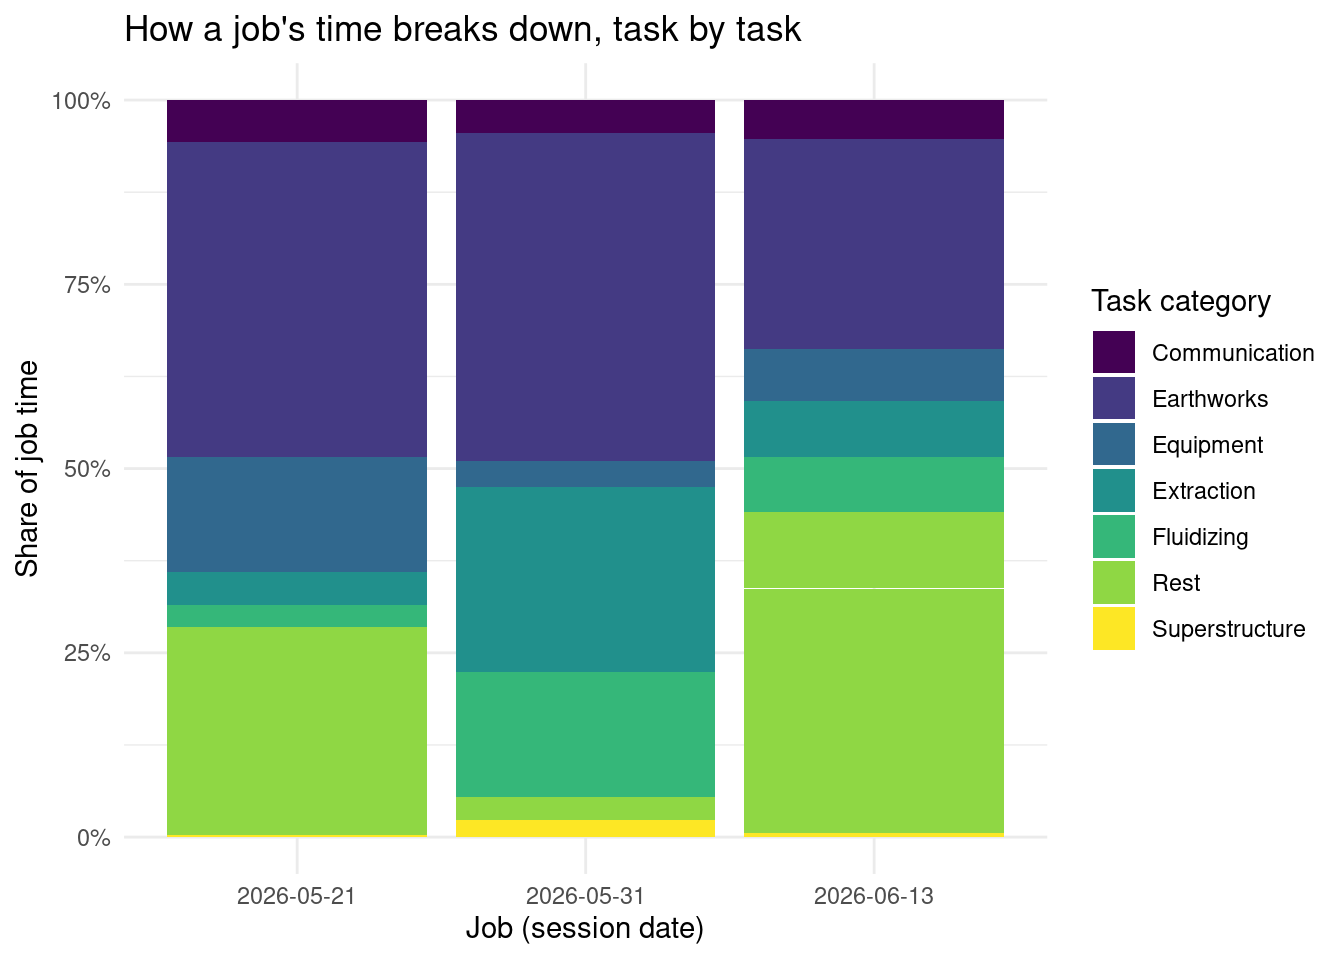
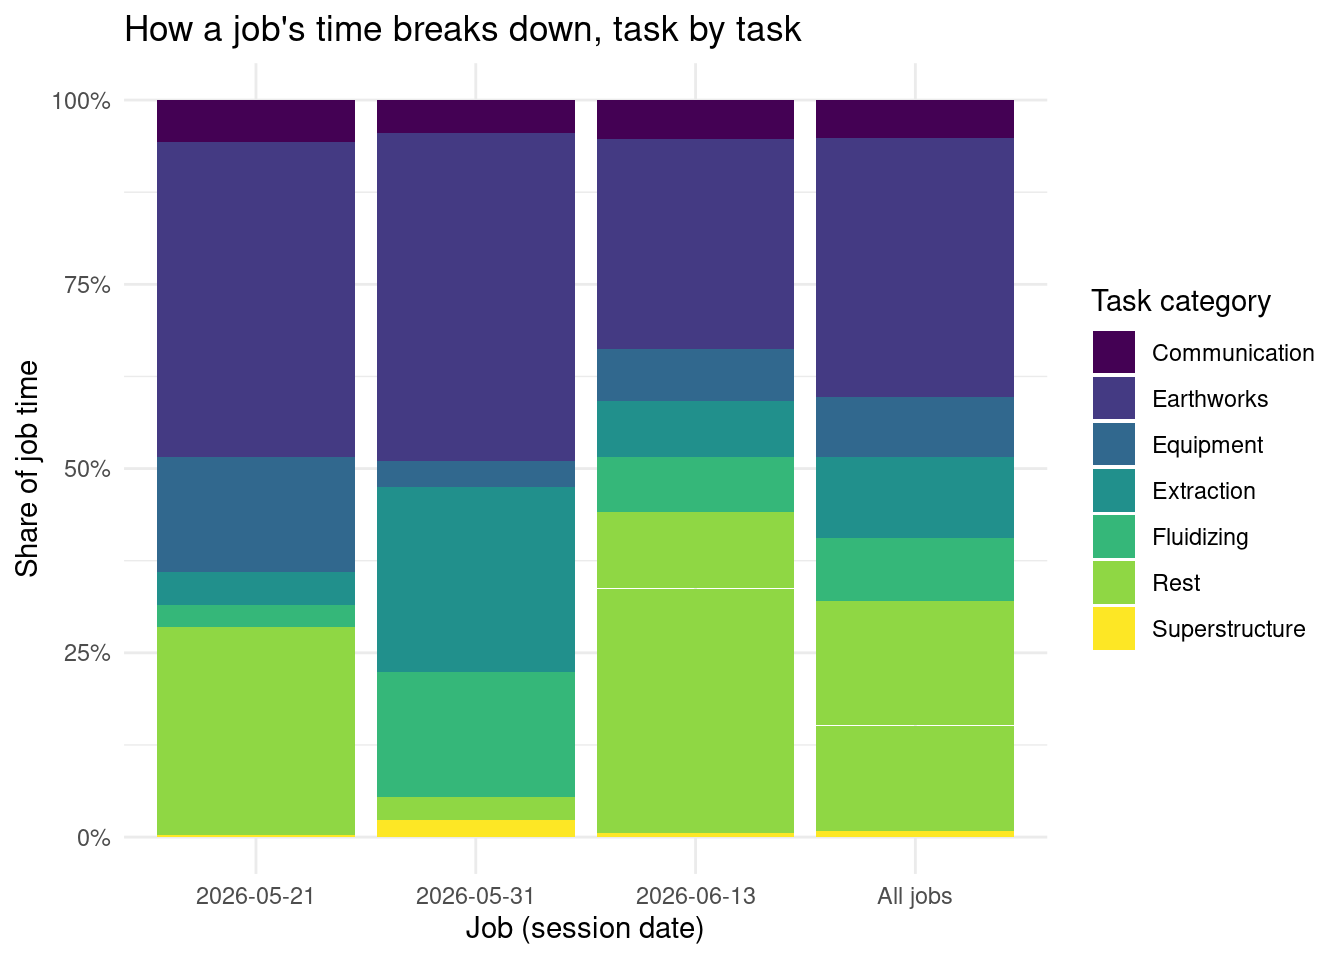
Added an additional column to figure 2, which depicts the percentage of time each task takes to complete a job. This additional column is an average of the three jobs.
For figure 3, the scale was changed from logarithmic to linear.

diff --git a/docs/index.html b/docs/index.html
@@ -116,7 +116,7 @@ div.csl-indent {
   <ul class="collapse">
   <li><a href="#time-by-task-category" id="toc-time-by-task-category" class="nav-link" data-scroll-target="#time-by-task-category">Time by task category</a></li>
   <li><a href="#share-of-job-time-by-task" id="toc-share-of-job-time-by-task" class="nav-link" data-scroll-target="#share-of-job-time-by-task">Share of job time by task</a></li>
-  <li><a href="#distribution-of-task-interval-durations" id="toc-distribution-of-task-interval-durations" class="nav-link" data-scroll-target="#distribution-of-task-interval-durations">Distribution of task-interval durations</a></li>
+  <li><a href="#typical-duration-by-task" id="toc-typical-duration-by-task" class="nav-link" data-scroll-target="#typical-duration-by-task">Typical duration by task</a></li>
   <li><a href="#summary-statistics" id="toc-summary-statistics" class="nav-link" data-scroll-target="#summary-statistics">Summary statistics</a></li>
   </ul></li>
   <li><a href="#conclusions" id="toc-conclusions" class="nav-link" data-scroll-target="#conclusions">Conclusions</a></li>
@@ -268,17 +268,26 @@ Figure&nbsp;1: Total observed time by task category, summed across all three rid
 <section id="share-of-job-time-by-task" class="level2">
 <h2 class="anchored" data-anchor-id="share-of-job-time-by-task">Share of job time by task</h2>
 <div class="cell">
-<div class="code-copy-outer-scaffold"><div class="sourceCode cell-code" id="cb6"><pre class="sourceCode r code-with-copy"><code class="sourceCode r"><span id="cb6-1"><a href="#cb6-1" aria-hidden="true" tabindex="-1"></a><span class="fu">ggplot</span>(gulper_data, <span class="fu">aes</span>(<span class="at">x =</span> <span class="fu">factor</span>(job_date), <span class="at">y =</span> duration_seconds, <span class="at">fill =</span> task)) <span class="sc">+</span></span>
-<span id="cb6-2"><a href="#cb6-2" aria-hidden="true" tabindex="-1"></a>  <span class="fu">geom_col</span>(<span class="at">position =</span> <span class="st">"fill"</span>) <span class="sc">+</span></span>
-<span id="cb6-3"><a href="#cb6-3" aria-hidden="true" tabindex="-1"></a>  <span class="fu">scale_y_continuous</span>(<span class="at">labels =</span> scales<span class="sc">::</span>percent) <span class="sc">+</span></span>
-<span id="cb6-4"><a href="#cb6-4" aria-hidden="true" tabindex="-1"></a>  <span class="fu">scale_fill_viridis_d</span>() <span class="sc">+</span></span>
-<span id="cb6-5"><a href="#cb6-5" aria-hidden="true" tabindex="-1"></a>  <span class="fu">labs</span>(</span>
-<span id="cb6-6"><a href="#cb6-6" aria-hidden="true" tabindex="-1"></a>    <span class="at">x =</span> <span class="st">"Job (session date)"</span>,</span>
-<span id="cb6-7"><a href="#cb6-7" aria-hidden="true" tabindex="-1"></a>    <span class="at">y =</span> <span class="st">"Share of job time"</span>,</span>
-<span id="cb6-8"><a href="#cb6-8" aria-hidden="true" tabindex="-1"></a>    <span class="at">fill =</span> <span class="st">"Task category"</span>,</span>
-<span id="cb6-9"><a href="#cb6-9" aria-hidden="true" tabindex="-1"></a>    <span class="at">title =</span> <span class="st">"How a job's time breaks down, task by task"</span></span>
-<span id="cb6-10"><a href="#cb6-10" aria-hidden="true" tabindex="-1"></a>  ) <span class="sc">+</span></span>
-<span id="cb6-11"><a href="#cb6-11" aria-hidden="true" tabindex="-1"></a>  <span class="fu">theme_minimal</span>()</span></code></pre></div><button title="Copy to Clipboard" class="code-copy-button"><i class="bi"></i></button></div>
+<div class="code-copy-outer-scaffold"><div class="sourceCode cell-code" id="cb6"><pre class="sourceCode r code-with-copy"><code class="sourceCode r"><span id="cb6-1"><a href="#cb6-1" aria-hidden="true" tabindex="-1"></a>job_labels <span class="ot">&lt;-</span> gulper_data <span class="sc">%&gt;%</span></span>
+<span id="cb6-2"><a href="#cb6-2" aria-hidden="true" tabindex="-1"></a>  <span class="fu">mutate</span>(<span class="at">job_date =</span> <span class="fu">as.character</span>(job_date))</span>
+<span id="cb6-3"><a href="#cb6-3" aria-hidden="true" tabindex="-1"></a></span>
+<span id="cb6-4"><a href="#cb6-4" aria-hidden="true" tabindex="-1"></a>job_share_data <span class="ot">&lt;-</span> <span class="fu">bind_rows</span>(</span>
+<span id="cb6-5"><a href="#cb6-5" aria-hidden="true" tabindex="-1"></a>  job_labels,</span>
+<span id="cb6-6"><a href="#cb6-6" aria-hidden="true" tabindex="-1"></a>  job_labels <span class="sc">%&gt;%</span> <span class="fu">mutate</span>(<span class="at">job_date =</span> <span class="st">"All jobs"</span>)</span>
+<span id="cb6-7"><a href="#cb6-7" aria-hidden="true" tabindex="-1"></a>) <span class="sc">%&gt;%</span></span>
+<span id="cb6-8"><a href="#cb6-8" aria-hidden="true" tabindex="-1"></a>  <span class="fu">mutate</span>(<span class="at">job_date =</span> <span class="fu">factor</span>(job_date, <span class="at">levels =</span> <span class="fu">c</span>(<span class="fu">sort</span>(<span class="fu">unique</span>(job_labels<span class="sc">$</span>job_date)), <span class="st">"All jobs"</span>)))</span>
+<span id="cb6-9"><a href="#cb6-9" aria-hidden="true" tabindex="-1"></a></span>
+<span id="cb6-10"><a href="#cb6-10" aria-hidden="true" tabindex="-1"></a><span class="fu">ggplot</span>(job_share_data, <span class="fu">aes</span>(<span class="at">x =</span> job_date, <span class="at">y =</span> duration_seconds, <span class="at">fill =</span> task)) <span class="sc">+</span></span>
+<span id="cb6-11"><a href="#cb6-11" aria-hidden="true" tabindex="-1"></a>  <span class="fu">geom_col</span>(<span class="at">position =</span> <span class="st">"fill"</span>) <span class="sc">+</span></span>
+<span id="cb6-12"><a href="#cb6-12" aria-hidden="true" tabindex="-1"></a>  <span class="fu">scale_y_continuous</span>(<span class="at">labels =</span> scales<span class="sc">::</span>percent) <span class="sc">+</span></span>
+<span id="cb6-13"><a href="#cb6-13" aria-hidden="true" tabindex="-1"></a>  <span class="fu">scale_fill_viridis_d</span>() <span class="sc">+</span></span>
+<span id="cb6-14"><a href="#cb6-14" aria-hidden="true" tabindex="-1"></a>  <span class="fu">labs</span>(</span>
+<span id="cb6-15"><a href="#cb6-15" aria-hidden="true" tabindex="-1"></a>    <span class="at">x =</span> <span class="st">"Job (session date)"</span>,</span>
+<span id="cb6-16"><a href="#cb6-16" aria-hidden="true" tabindex="-1"></a>    <span class="at">y =</span> <span class="st">"Share of job time"</span>,</span>
+<span id="cb6-17"><a href="#cb6-17" aria-hidden="true" tabindex="-1"></a>    <span class="at">fill =</span> <span class="st">"Task category"</span>,</span>
+<span id="cb6-18"><a href="#cb6-18" aria-hidden="true" tabindex="-1"></a>    <span class="at">title =</span> <span class="st">"How a job's time breaks down, task by task"</span></span>
+<span id="cb6-19"><a href="#cb6-19" aria-hidden="true" tabindex="-1"></a>  ) <span class="sc">+</span></span>
+<span id="cb6-20"><a href="#cb6-20" aria-hidden="true" tabindex="-1"></a>  <span class="fu">theme_minimal</span>()</span></code></pre></div><button title="Copy to Clipboard" class="code-copy-button"><i class="bi"></i></button></div>
 <div class="cell-output-display">
 <div id="fig-task-share" class="quarto-float quarto-figure quarto-figure-center anchored">
 <figure class="quarto-float quarto-float-fig figure">
@@ -286,45 +295,48 @@ Figure&nbsp;1: Total observed time by task category, summed across all three rid
 <img src="index_files/figure-html/fig-task-share-1.png" class="img-fluid figure-img" width="672">
 </div>
 <figcaption class="quarto-float-caption-bottom quarto-float-caption quarto-float-fig" id="fig-task-share-caption-0ceaefa1-69ba-4598-a22c-09a6ac19f8ca">
-Figure&nbsp;2: Percentage of each job’s total observed time spent on each task category, shown separately for the three ridealong sessions.
+Figure&nbsp;2: Percentage of each job’s total observed time spent on each task category, shown for the three individual ridealong sessions plus a fourth ‘All jobs’ column combining all three.
 </figcaption>
 </figure>
 </div>
 </div>
 </div>
-<p><a href="#fig-task-share" class="quarto-xref">Figure&nbsp;2</a> shows that Earthworks is the single largest share of every job (29-45%), but the balance of the rest of the time shifts a lot from job to job: Extraction and Fluidizing together used over 40% of the 31 May session but under 15% of the 13 June session, while Rest was rare on 31 May (3%) yet accounted for over 40% of the 13 June session. A single fixed cost-driver rate per task would therefore understate the cost of jobs with more digging and recovery time and overstate the cost of jobs dominated by fluidizing and extraction.</p>
+<p><a href="#fig-task-share" class="quarto-xref">Figure&nbsp;2</a> shows that Earthworks is the single largest share of every job (29-45%), but the balance of the rest of the time shifts a lot from job to job: Extraction and Fluidizing together used over 40% of the 31 May session but under 15% of the 13 June session, while Rest was rare on 31 May (3%) yet accounted for over 40% of the 13 June session. The combined “All jobs” column averages this out to roughly 35% Earthworks, 31% Rest, 11% Extraction, 9% Fluidizing, 8% Equipment, 5% Communication and 1% Superstructure, which is a useful overall benchmark but masks how much the mix actually swings from one job to the next. A single fixed cost-driver rate per task would therefore understate the cost of jobs with more digging and recovery time and overstate the cost of jobs dominated by fluidizing and extraction.</p>
 </section>
-<section id="distribution-of-task-interval-durations" class="level2">
-<h2 class="anchored" data-anchor-id="distribution-of-task-interval-durations">Distribution of task-interval durations</h2>
+<section id="typical-duration-by-task" class="level2">
+<h2 class="anchored" data-anchor-id="typical-duration-by-task">Typical duration by task</h2>
 <div class="cell">
-<div class="code-copy-outer-scaffold"><div class="sourceCode cell-code" id="cb7"><pre class="sourceCode r code-with-copy"><code class="sourceCode r"><span id="cb7-1"><a href="#cb7-1" aria-hidden="true" tabindex="-1"></a><span class="fu">ggplot</span>(</span>
-<span id="cb7-2"><a href="#cb7-2" aria-hidden="true" tabindex="-1"></a>  gulper_data,</span>
-<span id="cb7-3"><a href="#cb7-3" aria-hidden="true" tabindex="-1"></a>  <span class="fu">aes</span>(<span class="at">x =</span> <span class="fu">fct_reorder</span>(task, duration_seconds, <span class="at">.fun =</span> median), <span class="at">y =</span> duration_seconds, <span class="at">fill =</span> task)</span>
-<span id="cb7-4"><a href="#cb7-4" aria-hidden="true" tabindex="-1"></a>) <span class="sc">+</span></span>
-<span id="cb7-5"><a href="#cb7-5" aria-hidden="true" tabindex="-1"></a>  <span class="fu">geom_boxplot</span>(<span class="at">show.legend =</span> <span class="cn">FALSE</span>) <span class="sc">+</span></span>
-<span id="cb7-6"><a href="#cb7-6" aria-hidden="true" tabindex="-1"></a>  <span class="fu">scale_y_log10</span>() <span class="sc">+</span></span>
-<span id="cb7-7"><a href="#cb7-7" aria-hidden="true" tabindex="-1"></a>  <span class="fu">scale_fill_brewer</span>(<span class="at">palette =</span> <span class="st">"Set2"</span>) <span class="sc">+</span></span>
-<span id="cb7-8"><a href="#cb7-8" aria-hidden="true" tabindex="-1"></a>  <span class="fu">coord_flip</span>() <span class="sc">+</span></span>
-<span id="cb7-9"><a href="#cb7-9" aria-hidden="true" tabindex="-1"></a>  <span class="fu">labs</span>(</span>
-<span id="cb7-10"><a href="#cb7-10" aria-hidden="true" tabindex="-1"></a>    <span class="at">x =</span> <span class="st">"Task category"</span>,</span>
-<span id="cb7-11"><a href="#cb7-11" aria-hidden="true" tabindex="-1"></a>    <span class="at">y =</span> <span class="st">"Duration of a single task interval, in seconds (log scale)"</span>,</span>
-<span id="cb7-12"><a href="#cb7-12" aria-hidden="true" tabindex="-1"></a>    <span class="at">title =</span> <span class="st">"Spread of task-interval durations"</span></span>
-<span id="cb7-13"><a href="#cb7-13" aria-hidden="true" tabindex="-1"></a>  ) <span class="sc">+</span></span>
-<span id="cb7-14"><a href="#cb7-14" aria-hidden="true" tabindex="-1"></a>  <span class="fu">theme_minimal</span>()</span></code></pre></div><button title="Copy to Clipboard" class="code-copy-button"><i class="bi"></i></button></div>
+<div class="code-copy-outer-scaffold"><div class="sourceCode cell-code" id="cb7"><pre class="sourceCode r code-with-copy"><code class="sourceCode r"><span id="cb7-1"><a href="#cb7-1" aria-hidden="true" tabindex="-1"></a>task_duration_typical <span class="ot">&lt;-</span> gulper_data <span class="sc">%&gt;%</span></span>
+<span id="cb7-2"><a href="#cb7-2" aria-hidden="true" tabindex="-1"></a>  <span class="fu">group_by</span>(task) <span class="sc">%&gt;%</span></span>
+<span id="cb7-3"><a href="#cb7-3" aria-hidden="true" tabindex="-1"></a>  <span class="fu">summarise</span>(<span class="at">median_sec =</span> <span class="fu">median</span>(duration_seconds)) <span class="sc">%&gt;%</span></span>
+<span id="cb7-4"><a href="#cb7-4" aria-hidden="true" tabindex="-1"></a>  <span class="fu">arrange</span>(<span class="fu">desc</span>(median_sec))</span>
+<span id="cb7-5"><a href="#cb7-5" aria-hidden="true" tabindex="-1"></a></span>
+<span id="cb7-6"><a href="#cb7-6" aria-hidden="true" tabindex="-1"></a><span class="fu">ggplot</span>(task_duration_typical, <span class="fu">aes</span>(<span class="at">x =</span> <span class="fu">fct_reorder</span>(task, median_sec), <span class="at">y =</span> median_sec, <span class="at">fill =</span> task)) <span class="sc">+</span></span>
+<span id="cb7-7"><a href="#cb7-7" aria-hidden="true" tabindex="-1"></a>  <span class="fu">geom_col</span>(<span class="at">show.legend =</span> <span class="cn">FALSE</span>) <span class="sc">+</span></span>
+<span id="cb7-8"><a href="#cb7-8" aria-hidden="true" tabindex="-1"></a>  <span class="fu">geom_text</span>(<span class="fu">aes</span>(<span class="at">label =</span> <span class="fu">paste0</span>(<span class="fu">round</span>(median_sec), <span class="st">"s"</span>)), <span class="at">hjust =</span> <span class="sc">-</span><span class="fl">0.15</span>, <span class="at">size =</span> <span class="fl">3.5</span>) <span class="sc">+</span></span>
+<span id="cb7-9"><a href="#cb7-9" aria-hidden="true" tabindex="-1"></a>  <span class="fu">coord_flip</span>(<span class="at">clip =</span> <span class="st">"off"</span>) <span class="sc">+</span></span>
+<span id="cb7-10"><a href="#cb7-10" aria-hidden="true" tabindex="-1"></a>  <span class="fu">scale_fill_viridis_d</span>() <span class="sc">+</span></span>
+<span id="cb7-11"><a href="#cb7-11" aria-hidden="true" tabindex="-1"></a>  <span class="fu">scale_y_continuous</span>(<span class="at">expand =</span> <span class="fu">expansion</span>(<span class="at">mult =</span> <span class="fu">c</span>(<span class="dv">0</span>, <span class="fl">0.15</span>))) <span class="sc">+</span></span>
+<span id="cb7-12"><a href="#cb7-12" aria-hidden="true" tabindex="-1"></a>  <span class="fu">labs</span>(</span>
+<span id="cb7-13"><a href="#cb7-13" aria-hidden="true" tabindex="-1"></a>    <span class="at">x =</span> <span class="st">"Task category"</span>,</span>
+<span id="cb7-14"><a href="#cb7-14" aria-hidden="true" tabindex="-1"></a>    <span class="at">y =</span> <span class="st">"Median task-interval duration (seconds)"</span>,</span>
+<span id="cb7-15"><a href="#cb7-15" aria-hidden="true" tabindex="-1"></a>    <span class="at">title =</span> <span class="st">"How long a typical interval of each task takes"</span></span>
+<span id="cb7-16"><a href="#cb7-16" aria-hidden="true" tabindex="-1"></a>  ) <span class="sc">+</span></span>
+<span id="cb7-17"><a href="#cb7-17" aria-hidden="true" tabindex="-1"></a>  <span class="fu">theme_minimal</span>()</span></code></pre></div><button title="Copy to Clipboard" class="code-copy-button"><i class="bi"></i></button></div>
 <div class="cell-output-display">
-<div id="fig-duration-distribution" class="quarto-float quarto-figure quarto-figure-center anchored">
+<div id="fig-typical-duration" class="quarto-float quarto-figure quarto-figure-center anchored">
 <figure class="quarto-float quarto-float-fig figure">
-<div aria-describedby="fig-duration-distribution-caption-0ceaefa1-69ba-4598-a22c-09a6ac19f8ca">
-<img src="index_files/figure-html/fig-duration-distribution-1.png" class="img-fluid figure-img" width="672">
+<div aria-describedby="fig-typical-duration-caption-0ceaefa1-69ba-4598-a22c-09a6ac19f8ca">
+<img src="index_files/figure-html/fig-typical-duration-1.png" class="img-fluid figure-img" width="672">
 </div>
-<figcaption class="quarto-float-caption-bottom quarto-float-caption quarto-float-fig" id="fig-duration-distribution-caption-0ceaefa1-69ba-4598-a22c-09a6ac19f8ca">
-Figure&nbsp;3: Distribution of individual task-interval durations by task category, on a log scale. An interval is one continuous row of the raw data: the length of time a single gulper spent on one subtask before switching to a different subtask or task.
+<figcaption class="quarto-float-caption-bottom quarto-float-caption quarto-float-fig" id="fig-typical-duration-caption-0ceaefa1-69ba-4598-a22c-09a6ac19f8ca">
+Figure&nbsp;3: Median duration of a task interval, by task category, on an ordinary (linear) scale. Bars are labelled with the exact median duration in seconds.
 </figcaption>
 </figure>
 </div>
 </div>
 </div>
-<p><a href="#fig-duration-distribution" class="quarto-xref">Figure&nbsp;3</a> shows that Earthworks combines both a high total and a high median interval duration, while Communication intervals are consistently short with little spread. Rest and Extraction show the widest spread on the log scale, indicating that some individual rest or extraction intervals run far longer than a typical interval of that type.</p>
+<p><a href="#fig-typical-duration" class="quarto-xref">Figure&nbsp;3</a> shows on an ordinary linear scale just how much longer a typical Earthworks interval is than a typical Communication interval: about 98 seconds versus roughly 15 seconds, a roughly six-fold difference that a log scale can visually understate. Median rather than mean duration is plotted here because a handful of unusually long intervals (up to about 25 minutes for Earthworks) would otherwise pull the bars up and obscure the typical case; the full spread, including those outliers, is reported in <a href="#tbl-task-summary" class="quarto-xref">Table&nbsp;1</a>.</p>
 </section>
 <section id="summary-statistics" class="level2">
 <h2 class="anchored" data-anchor-id="summary-statistics">Summary statistics</h2>